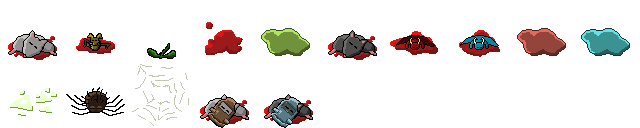
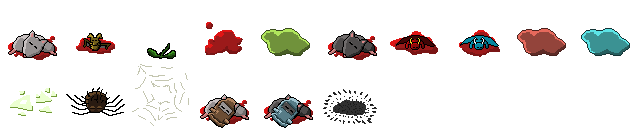
ADD Monster : Violet slime

Changed region(s): [[0.5, 0.6875, 0.5938, 0.9688]]

diff --git a/src/ExplosionEntity.cpp b/src/ExplosionEntity.cpp
@@ -1,0 +1,91 @@
+#include "ExplosionEntity.h"
+#include "sfml_game/ImageManager.h"
+#include "sfml_game/SoundManager.h"
+#include "sfml_game/SpriteEntity.h"
+#include "Constants.h"
+#include "WitchBlastGame.h"
+
+#include <iostream>
+
+ExplosionEntity::ExplosionEntity(float x, float y)
+  : SpriteEntity(ImageManager::getImageManager()->getImage(IMAGE_EXPLOSION64), x, y, 64, 64)
+{
+  type = ENTITY_EXPLOSION;
+  frame = 0;
+  imagesProLine = 10;
+  lifetime = 1.0f;
+  spin = 900.0f;
+
+  testCollisions();
+}
+
+void ExplosionEntity::animate(float delay)
+{
+  if (lifetime > 0)
+  {
+    if (age >= lifetime) isDying = true;
+  }
+  age += delay;
+  angle += spin * delay;
+
+  z = y + height / 2;
+
+  if (age > lifetime - 0.5f)
+  {
+    float f = (lifetime - age) * 2.0f;
+    sprite.setScale(f, f);
+  }
+}
+
+void ExplosionEntity::render(sf::RenderTarget* app)
+{
+  SpriteEntity::render(app);
+  /*if (game().getShowLogical())
+  {
+    displayBoundingBox(app);
+    displayCenterAndZ(app);
+  }*/
+}
+
+void ExplosionEntity::dying()
+{
+  isDying = true;
+}
+
+void ExplosionEntity::testCollisions()
+{
+  EntityManager::EntityList* entityList =EntityManager::getEntityManager()->getList();
+  EntityManager::EntityList::iterator it;
+
+	for (it = entityList->begin (); it != entityList->end ();)
+	{
+		GameEntity *e = *it;
+		it++;
+
+		if ( (e->getType() >= ENTITY_ENNEMY && e->getType() <= ENTITY_ENNEMY_MAX)
+        || e->getType() == ENTITY_PLAYER)
+		{
+		  BaseCreatureEntity* entity = static_cast<BaseCreatureEntity*>(e);
+
+		  if (entity->getHp() > 0 && entity->canCollide())
+      {
+        entity->calculateBB();
+
+        sf::IntRect bb;
+        bb.left = x - 75;
+        bb.width = 150;
+        bb.top = y - 75;
+        bb.height = 150;
+
+        if (bb.intersects(entity->getBoundingBox()))
+        {
+          entity->hurt(12, ShotTypeFire, 0);
+
+          Vector2D recoilVector = Vector2D(x, y).vectorTo(Vector2D(entity->getX(), entity->getY()), 800.0f );
+          entity->giveRecoil(true, recoilVector, 1.0f);
+        }
+      }
+
+		}
+	}
+}

diff --git a/src/SlimeEntity.cpp b/src/SlimeEntity.cpp
@@ -1,6 +1,7 @@
 #include "SlimeEntity.h"
 #include "PlayerEntity.h"
 #include "EnnemyBoltEntity.h"
+#include "ExplosionEntity.h"
 #include "sfml_game/SpriteEntity.h"
 #include "sfml_game/ImageManager.h"
 #include "sfml_game/SoundManager.h"
@@ -41,6 +42,10 @@ SlimeEntity::SlimeEntity(float x, float y, slimeTypeEnum slimeType, bool invocat
     resistance[ResistanceIce] = ResistanceLow;
     resistance[ResistanceFire] = ResistanceHigh;
     enemyType = invocated ? EnemyTypeSlimeRed_invocated : EnemyTypeSlimeRed;
+  }
+  else if (slimeType == SlimeTypeViolet)
+  {
+    enemyType = invocated ? EnemyTypeSlimeViolet_invocated : EnemyTypeSlimeViolet;
   }
   else
   {
@@ -245,11 +250,13 @@ void SlimeEntity::dying()
   game().addKilledEnemy(enemyType);
   SpriteEntity* deadSlime = new SpriteEntity(ImageManager::getImageManager()->getImage(IMAGE_CORPSES), x, y, 64, 64);
   deadSlime->setZ(OFFSET_Y);
+  deadSlime->setImagesProLine(10);
   switch (slimeType)
   {
     case SlimeTypeStandard: deadSlime->setFrame(FRAME_CORPSE_SLIME); break;
     case SlimeTypeRed: deadSlime->setFrame(FRAME_CORPSE_SLIME_RED); break;
     case SlimeTypeBlue: deadSlime->setFrame(FRAME_CORPSE_SLIME_BLUE); break;
+    case SlimeTypeViolet: deadSlime->setFrame(FRAME_CORPSE_SLIME_VIOLET); explode(); break;
   }
   deadSlime->setType(ENTITY_CORPSE);
 
@@ -306,4 +313,10 @@ void SlimeEntity::fire()
     }
   }
   SoundManager::getSoundManager()->playSound(SOUND_BLAST_FLOWER);
+}
+
+void SlimeEntity::explode()
+{
+  new ExplosionEntity(x, y);
+  game().makeShake(1.0f);
 }

diff --git a/src/WitchBlastGame.cpp b/src/WitchBlastGame.cpp
@@ -95,6 +95,7 @@ WitchBlastGame::WitchBlastGame(): Game(SCREEN_WIDTH, SCREEN_HEIGHT)
   ImageManager::getImageManager()->addImage("media/star2.png");
   ImageManager::getImageManager()->addImage("media/interface.png");
   ImageManager::getImageManager()->addImage("media/hud_shots.png");
+  ImageManager::getImageManager()->addImage("media/boom64.png");
 
   ImageManager::getImageManager()->addImage("media/pnj.png");
   ImageManager::getImageManager()->addImage("media/fairy.png");
@@ -921,10 +922,7 @@ int WitchBlastGame::getEnnemyCount()
 		GameEntity *e = *it;
 		it++;
 
-		if (e->getType() >= 20)
-		{
-		  n++;
-		}
+		if (e->getType() >= ENTITY_ENNEMY && e->getType() <= ENTITY_ENNEMY_MAX) n++;
 	}
 
 	return n;
@@ -1378,6 +1376,7 @@ void WitchBlastGame::addMonster(enemyTypeEnum monsterType, float xm, float ym)
     case EnemyTypeImpBlue: new ImpEntity(xm, ym, ImpEntity::ImpTypeBlue); break;
     case EnemyTypeSlimeRed: new SlimeEntity(xm, ym, SlimeTypeRed, false); break;
     case EnemyTypeSlimeBlue: new SlimeEntity(xm, ym, SlimeTypeBlue, false); break;
+    case EnemyTypeSlimeViolet: new SlimeEntity(xm, ym, SlimeTypeViolet, false); break;
 
     default: std::cout << "[WARNING] Enemy (" << monsterType << ") not handled in switch.\n";
   }

diff --git a/src/Constants.h b/src/Constants.h
@@ -98,6 +98,7 @@ enum item_images {
   IMAGE_STAR_2,
   IMAGE_INTERFACE,
   IMAGE_HUD_SHOTS,
+  IMAGE_EXPLOSION64,
 
   IMAGE_PNJ,
   IMAGE_FAIRY
@@ -163,6 +164,7 @@ enum corpses_ressources{
   FRAME_CORPSE_SPIDER_WEB,
   FRAME_CORPSE_RAT_HELMET,
   FRAME_CORPSE_BLACK_RAT_HELMET,
+  FRAME_CORPSE_SLIME_VIOLET,
 
   FRAME_CORPSE_KING_RAT,
   FRAME_CORPSE_GIANT_SLIME,
@@ -245,11 +247,12 @@ const int ENTITY_ENNEMY_BOLT = 16;
 const int ENTITY_PNJ = 17;
 const int ENTITY_CHEST = 18;
 const int ENTITY_ITEM = 19;
-const int ENTITY_ENNEMY = 21;
-const int ENTITY_ENNEMY_INVOCATED = 22;
-const int ENTITY_ENNEMY_BOSS = 23;
+const int ENTITY_EXPLOSION = 20;
+const int ENTITY_ENNEMY = 31;
+const int ENTITY_ENNEMY_INVOCATED = 32;
+const int ENTITY_ENNEMY_BOSS = 33;
 
-const int ENTITY_ENNEMY_MAX = 23;
+const int ENTITY_ENNEMY_MAX = 33;
 
 
 const float DOOR_OPEN_TIME = 1.0f;

diff --git a/src/SlimeEntity.h b/src/SlimeEntity.h
@@ -4,7 +4,7 @@
 #include "EnemyEntity.h"
 #include "PlayerEntity.h"
 
-enum slimeTypeEnum { SlimeTypeStandard, SlimeTypeRed, SlimeTypeBlue };
+enum slimeTypeEnum { SlimeTypeStandard, SlimeTypeRed, SlimeTypeBlue, SlimeTypeViolet };
 
 class SlimeEntity : public EnemyEntity
 {
@@ -37,6 +37,7 @@ class SlimeEntity : public EnemyEntity
     slimeTypeEnum slimeType;
 
     void fire();
+    void explode();
 };
 
 #endif // SLIMESPRITE_H

diff --git a/src/EnemyEntity.h b/src/EnemyEntity.h
@@ -16,6 +16,7 @@ enum enemyTypeEnum
   EnemyTypeSlime,
   EnemyTypeSlimeRed,
   EnemyTypeSlimeBlue,
+  EnemyTypeSlimeViolet,
   EnemyTypeImpBlue,
   EnemyTypeImpRed,
 
@@ -33,6 +34,7 @@ enum enemyTypeEnum
   EnemyTypeSlime_invocated,
   EnemyTypeSlimeRed_invocated,
   EnemyTypeSlimeBlue_invocated,
+  EnemyTypeSlimeViolet_invocated,
   EnemyTypeSpiderEgg_invocated,
   EnemyTypeSpiderLittle_invocated,
   EnemyTypeSpiderWeb,

diff --git a/src/ExplosionEntity.h b/src/ExplosionEntity.h
@@ -1,0 +1,19 @@
+#ifndef EXPLOSIONENTITY_H
+#define EXPLOSIONENTITY_H
+
+#include "sfml_game/SpriteEntity.h"
+
+class ExplosionEntity : public SpriteEntity
+{
+  public:
+    ExplosionEntity(float x, float y);
+
+    virtual void animate(float delay);
+    virtual void render(sf::RenderTarget* app);
+    virtual void dying();
+
+  protected:
+    void testCollisions();
+};
+
+#endif // EXPLOSIONENTITY_H
